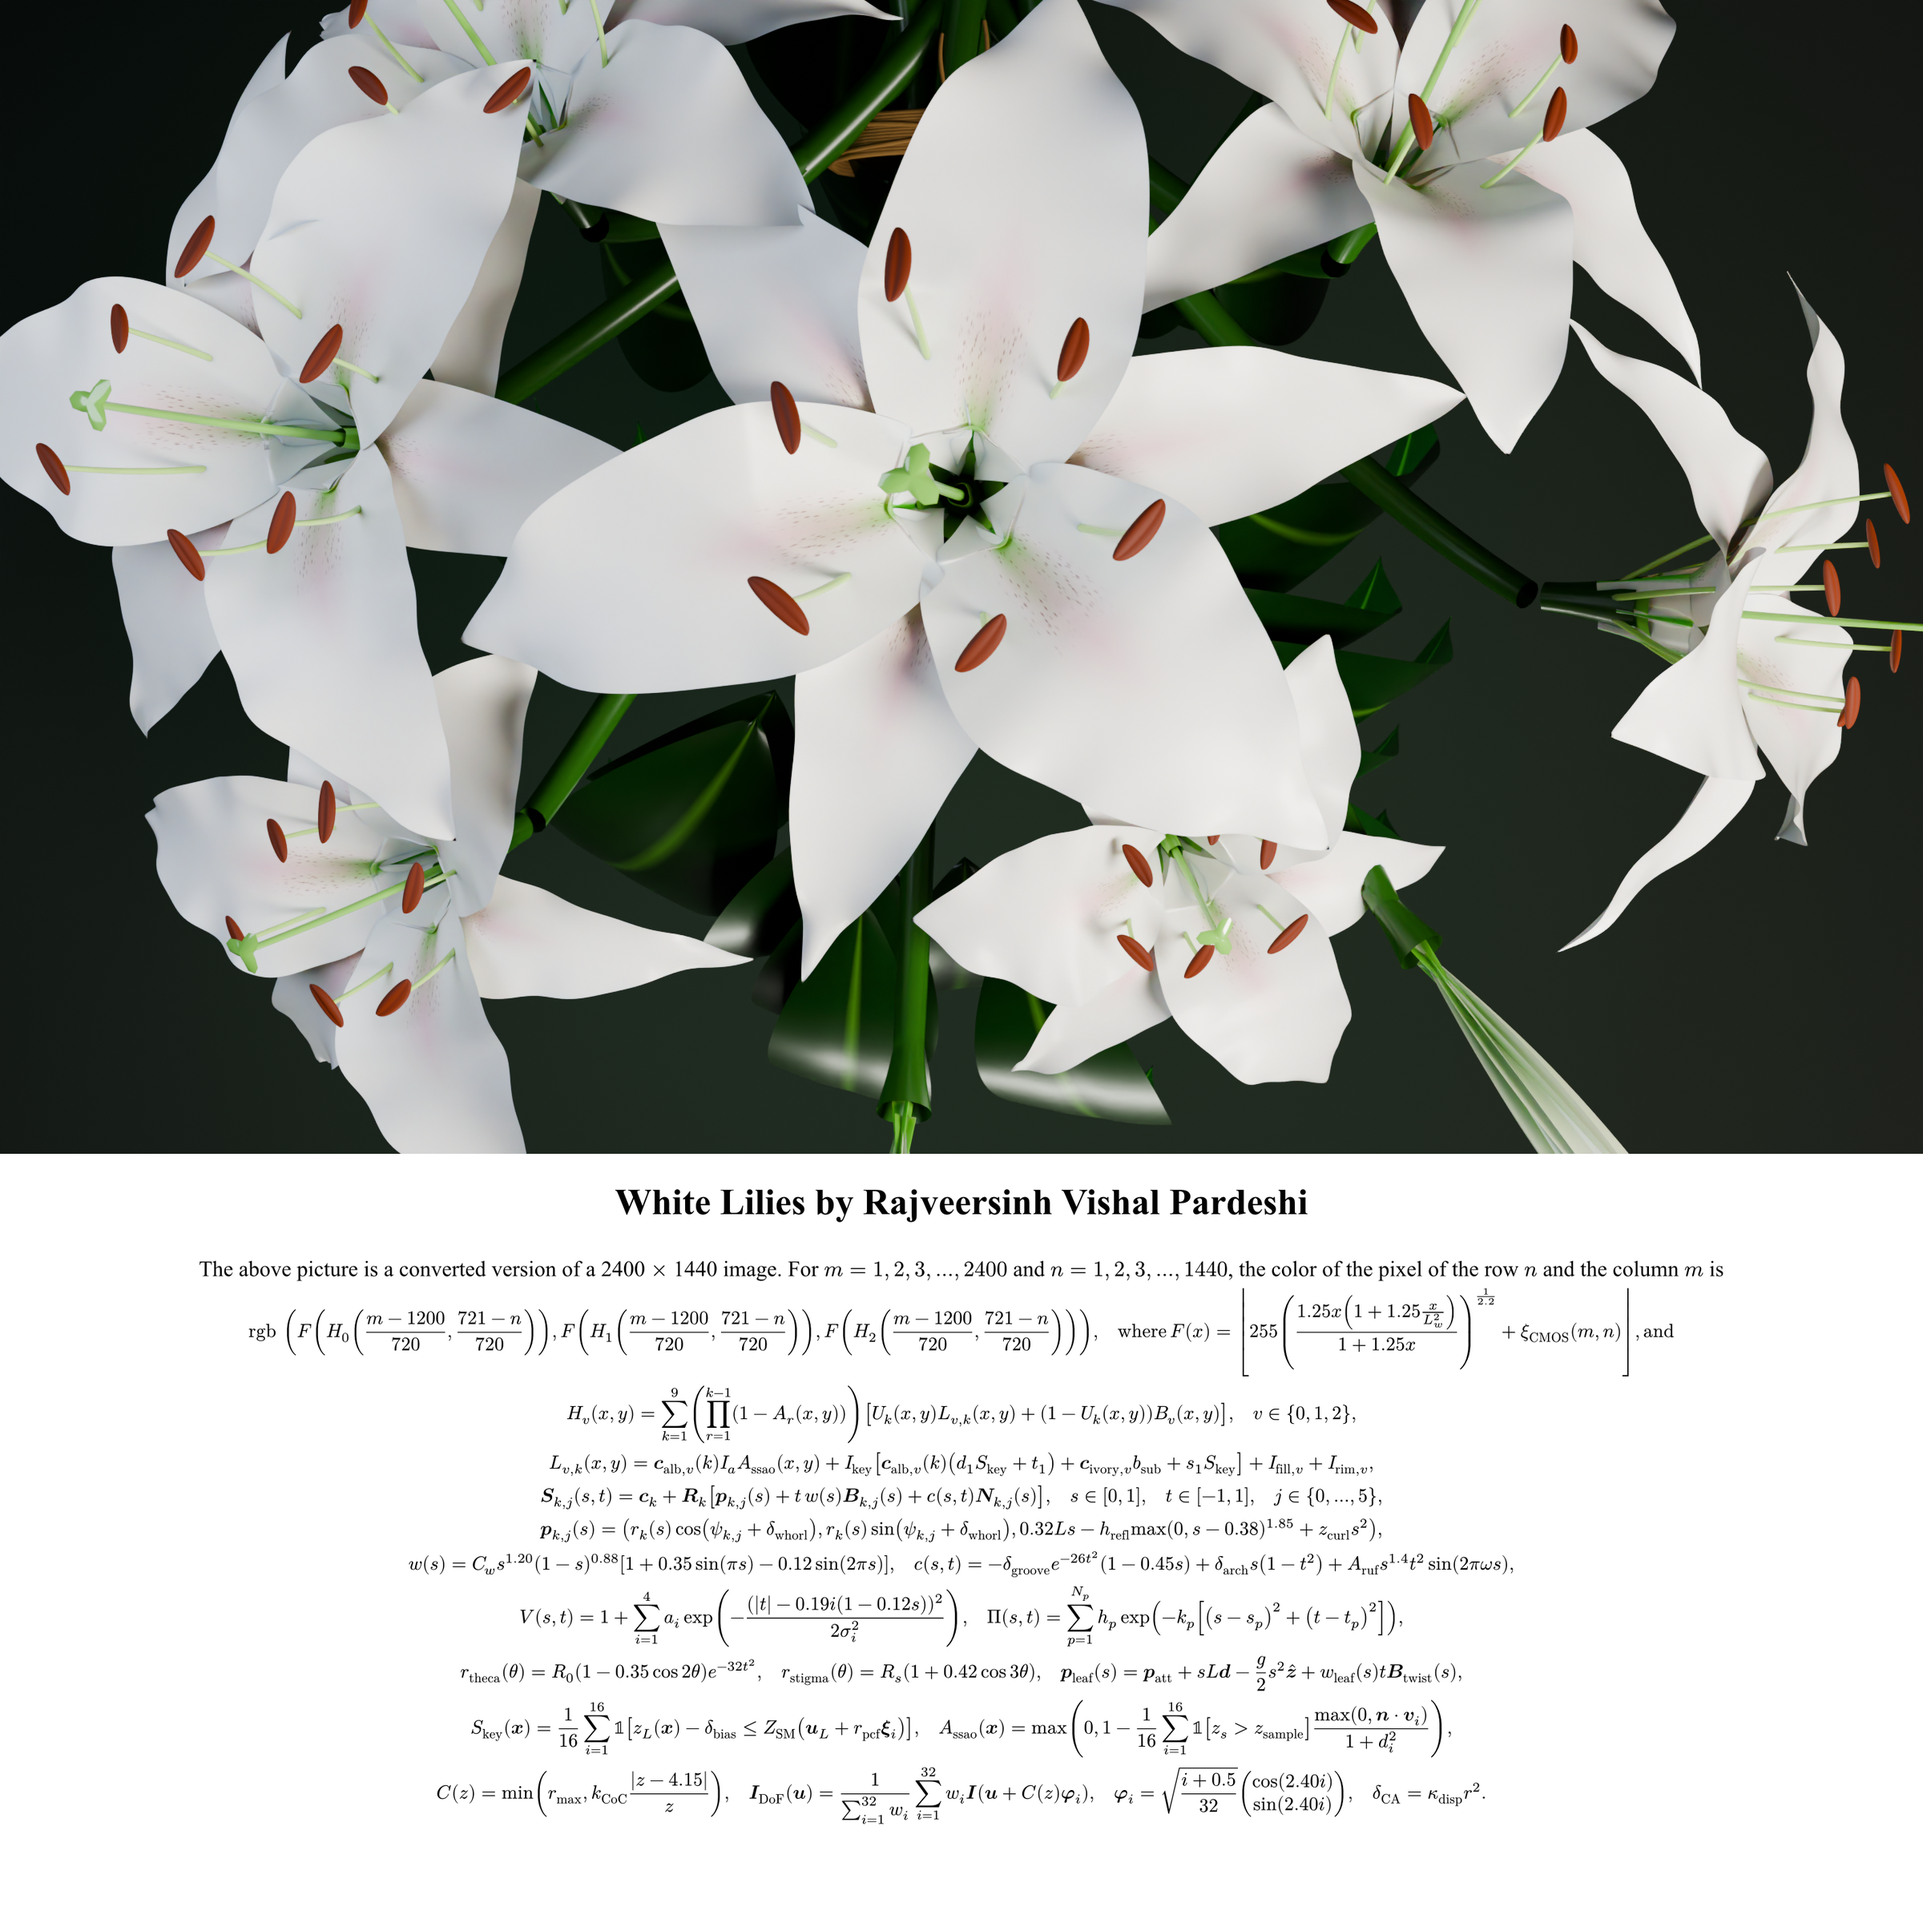
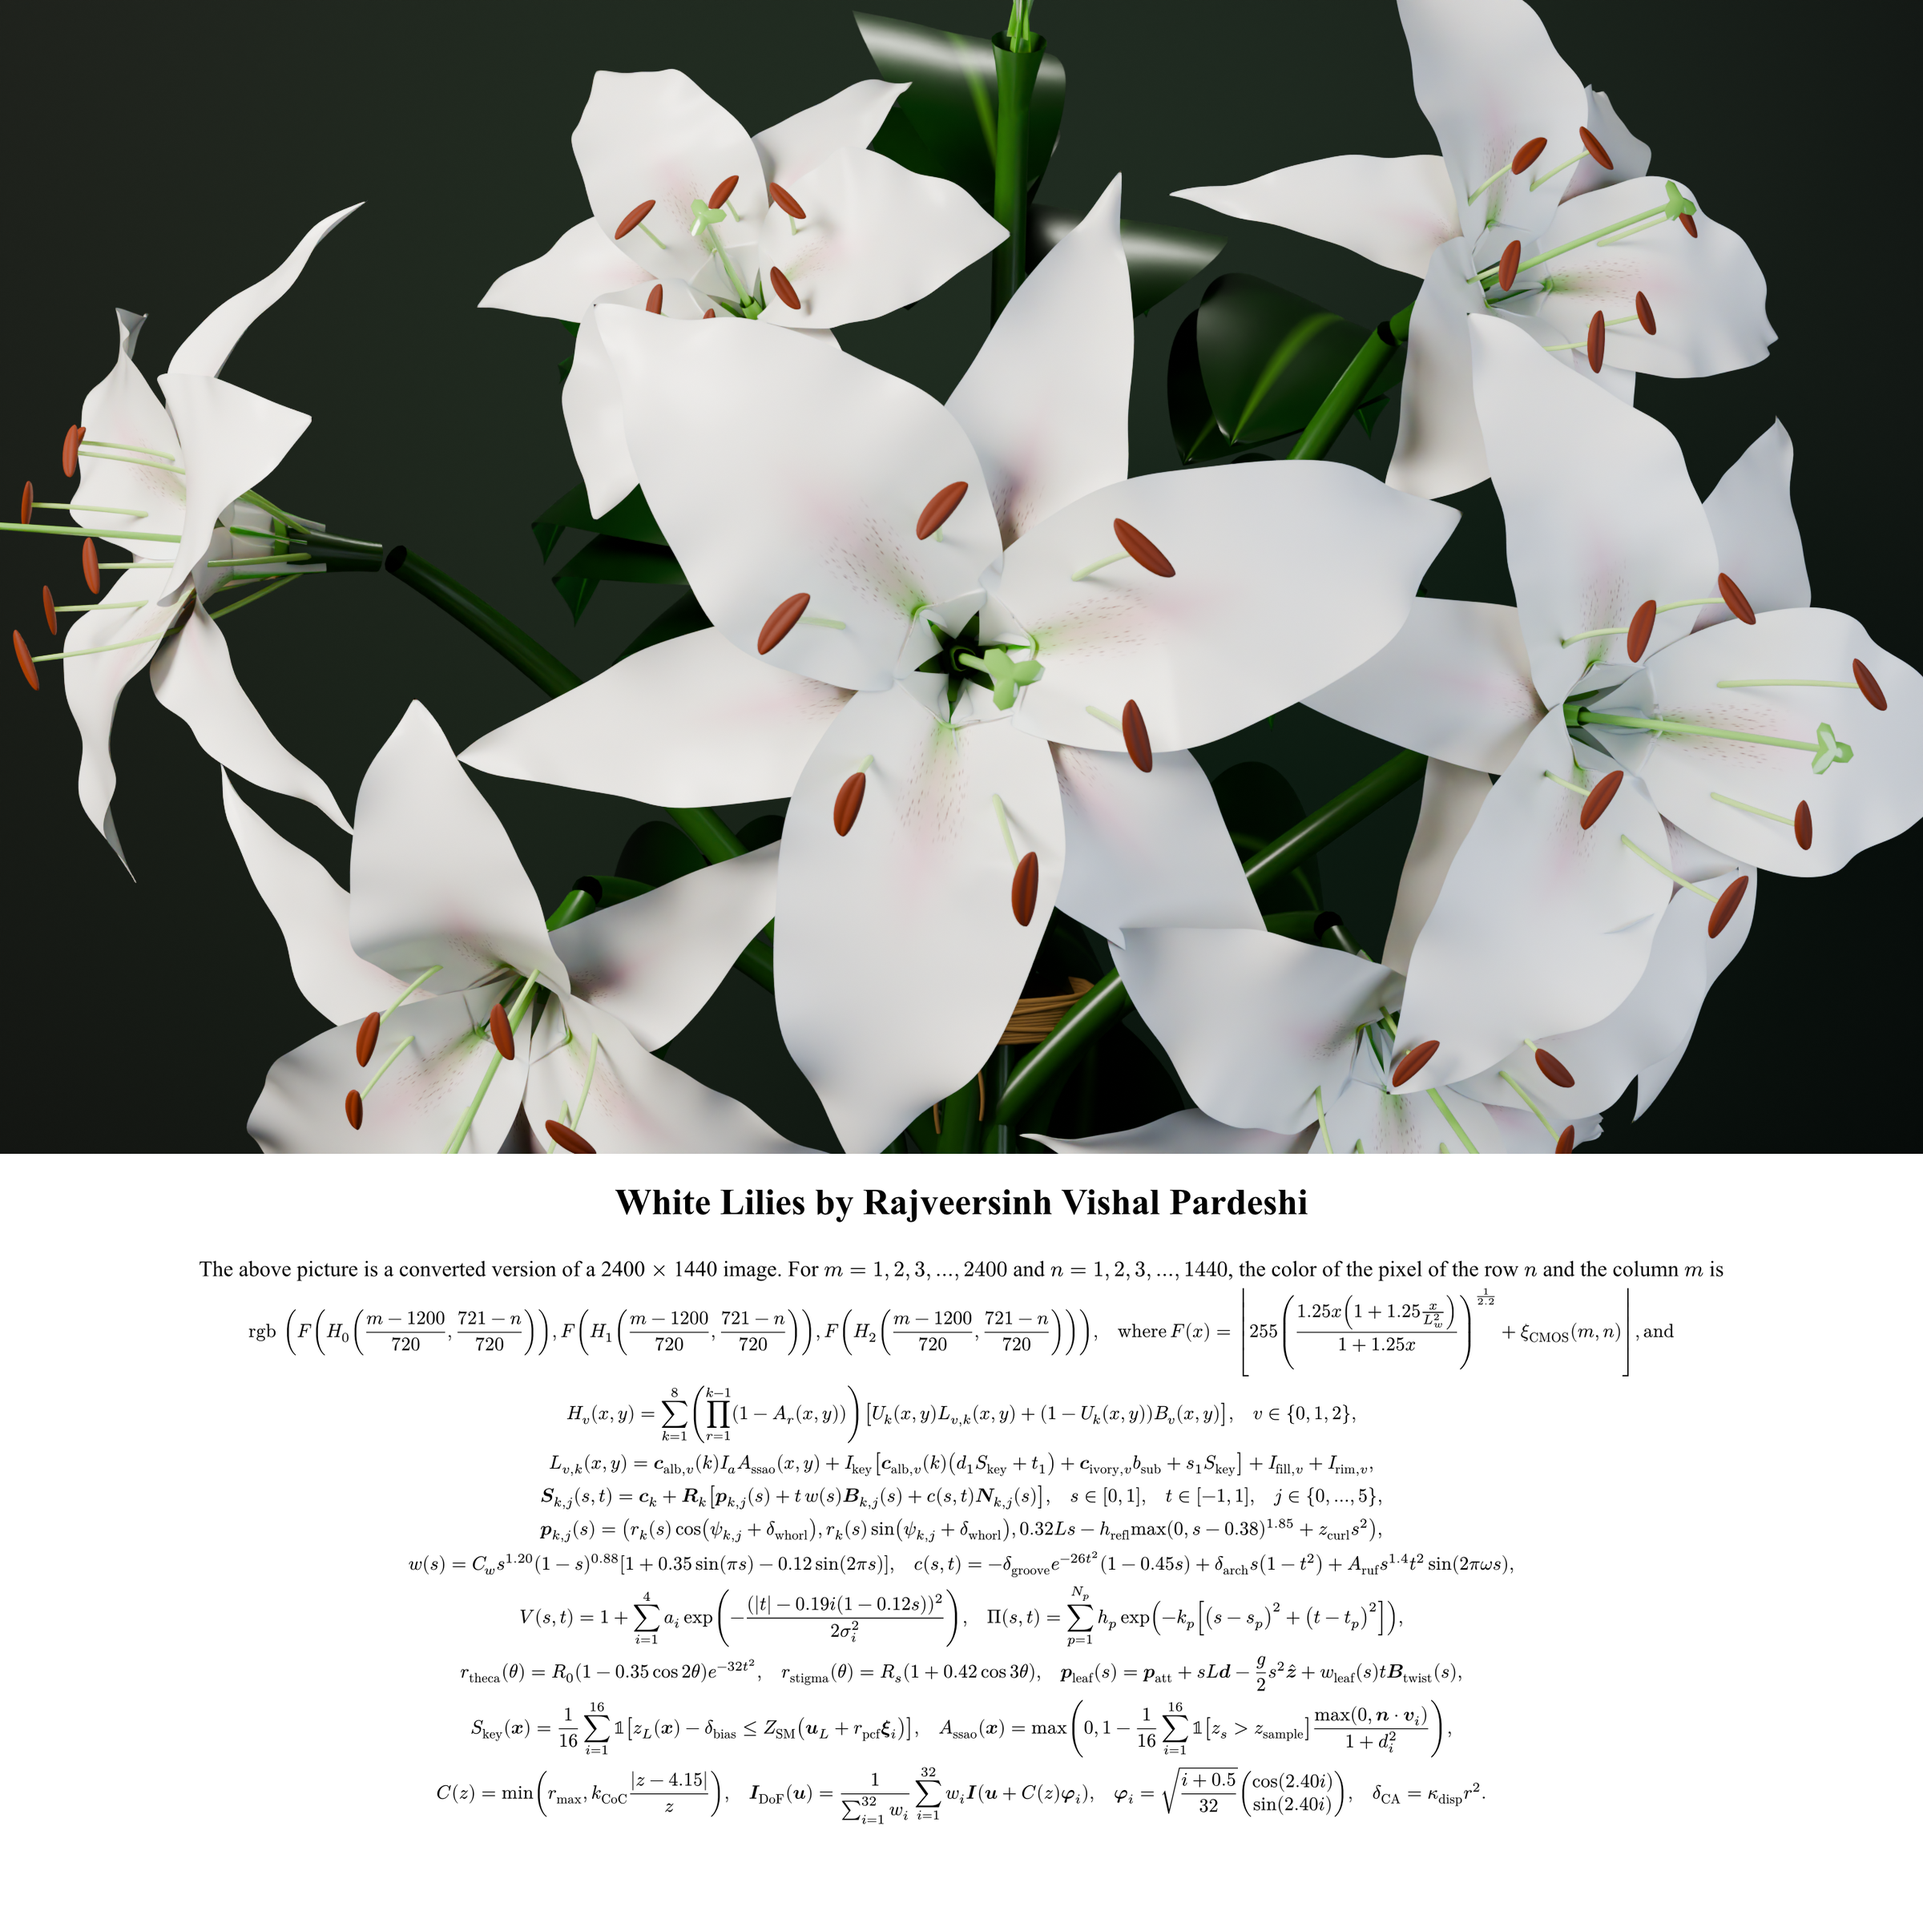
fix: remove protruding satellite bud and correct camera orientation roll

diff --git a/src/blender_cycles_bouquet.py b/src/blender_cycles_bouquet.py
@@ -628,6 +628,16 @@ def render_bouquet_cycles(
     # Studio Backdrop
     create_backdrop(scene)
     
+    from mathutils import Matrix
+
+    def get_camera_rotation(loc, tgt):
+        forward = (Vector(tgt) - Vector(loc)).normalized()
+        up_ref = Vector((0.0, 1.0, 0.0))
+        right = forward.cross(up_ref).normalized()
+        actual_up = right.cross(forward).normalized()
+        cam_matrix_3x3 = Matrix((right, actual_up, -forward)).transposed()
+        return cam_matrix_3x3.to_euler()
+
     def track_to_point(light_obj, target_pos):
         loc = Vector(light_obj.location)
         tgt = Vector(target_pos)
@@ -648,7 +658,7 @@ def render_bouquet_cycles(
     
     cam_obj = bpy.data.objects.new("Camera", cam_data)
     cam_obj.location = (0.0, 0.55, 4.55)
-    track_to_point(cam_obj, target_center)
+    cam_obj.rotation_euler = get_camera_rotation(cam_obj.location, target_center)
     scene.collection.objects.link(cam_obj)
     scene.camera = cam_obj
     

diff --git a/src/math_spec.py b/src/math_spec.py
@@ -76,7 +76,7 @@ def generate_typst_panel_markup() -> str:
 
 $ "rgb" lr(( F lr(( H_0 lr(( frac(m - 1200, 720), frac(721 - n, 720) )) )), thin F lr(( H_1 lr(( frac(m - 1200, 720), frac(721 - n, 720) )) )), thin F lr(( H_2 lr(( frac(m - 1200, 720), frac(721 - n, 720) )) )) )), quad "where" thin F(x) = lr(floor.l 255 lr(( frac(1.25 x (1 + 1.25 x / L_w^2), 1 + 1.25 x) ))^(1 / 2.2) + xi_"CMOS" (m, n) floor.r), "and" $
 
-$ H_v (x, y) = sum_(k=1)^(9) lr(( product_(r=1)^(k-1) (1 - A_r (x, y)) )) lr([ U_k (x, y) L_(v, k) (x, y) + (1 - U_k (x, y)) B_v (x, y) ]), quad v in {0, 1, 2}, $
+$ H_v (x, y) = sum_(k=1)^(8) lr(( product_(r=1)^(k-1) (1 - A_r (x, y)) )) lr([ U_k (x, y) L_(v, k) (x, y) + (1 - U_k (x, y)) B_v (x, y) ]), quad v in {0, 1, 2}, $
 
 $ L_(v, k) (x, y) = bold(c)_("alb", v) (k) I_a A_"ssao" (x, y) + I_"key" lr([ bold(c)_("alb", v) (k) (d_1 S_"key" + t_1) + bold(c)_("ivory", v) b_"sub" + s_1 S_"key" ]) + I_("fill", v) + I_("rim", v), $
 

diff --git a/src/foliage.py b/src/foliage.py
@@ -678,17 +678,6 @@ class BouquetScene:
                 "opening": 0.15,
                 "is_bud": True,
                 "roll": 0.12
-            },
-            # 9. Upper-Left Satellite Bud: Fresh youthful bud extending naturally to the upper left
-            {
-                "id": 9,
-                "center": np.array([-0.65, 0.58, 0.05]),
-                "facing": normalize(np.array([-0.52, 0.74, 0.42])),
-                "up": normalize(np.array([0.24, 0.48, -0.84])),
-                "scale": 0.76,
-                "opening": 0.12,
-                "is_bud": True,
-                "roll": -0.15
             }
         ]
         
